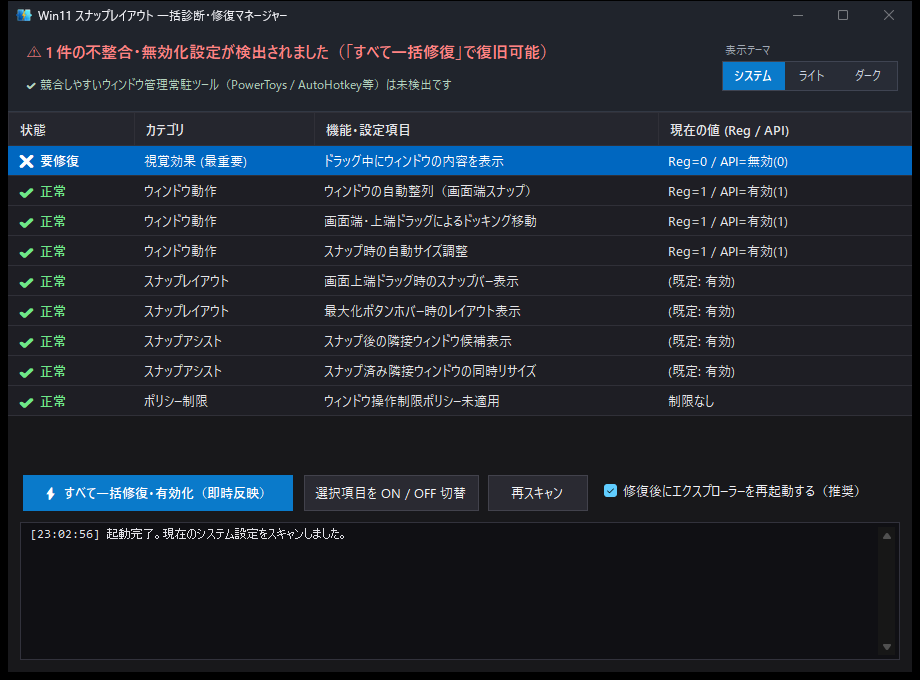
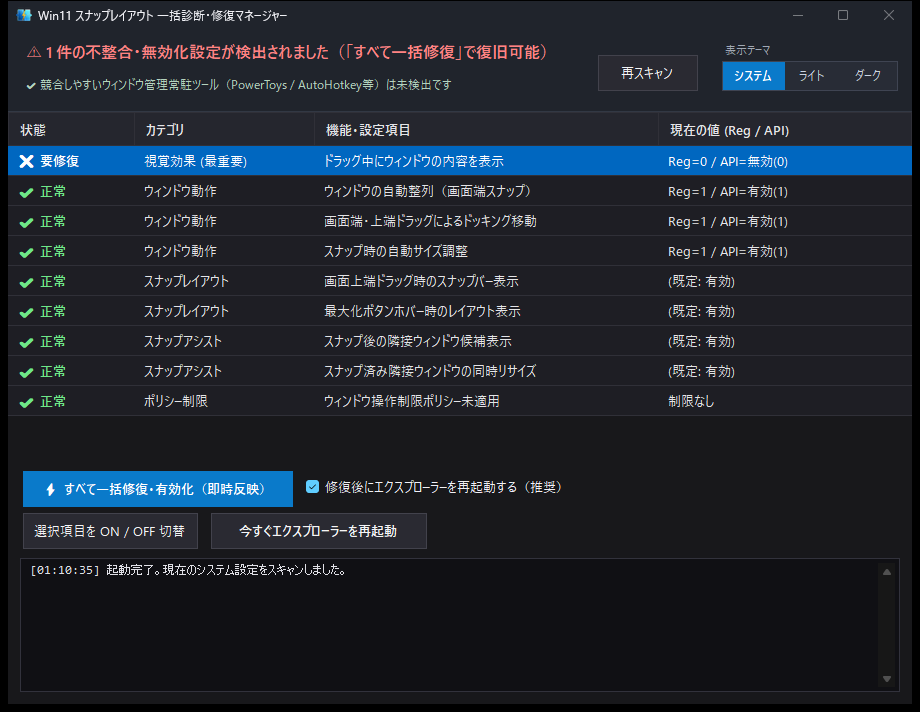
release: v1.1.0

diff --git a/README.md b/README.md
@@ -6,7 +6,7 @@
 
 **Windows 11 のスナップレイアウト・画面端スナップ・ドラッグ視覚効果の不整合を瞬時に診断し、ワンクリックで一括修復するスタンドアロンツール**
 
-[![Release](https://img.shields.io/badge/Release-v1.0.0-238636?style=flat-square)](https://github.com/777Labs/Win11SnapAllInOne/releases)
+[![Release](https://img.shields.io/badge/Release-v1.1.0-238636?style=flat-square)](https://github.com/777Labs/Win11SnapAllInOne/releases)
 [![Platform](https://img.shields.io/badge/Platform-Windows%2011%20(64--bit)-0078D4?style=flat-square)](https://github.com/777Labs/Win11SnapAllInOne)
 [![License](https://img.shields.io/badge/License-Freeware-blue?style=flat-square)](LICENSE)
 
@@ -36,8 +36,8 @@
   - レジストリ値だけでなく `SystemParametersInfo` API の実効値まで一括診断し、設定の不整合や無効化されている項目を赤色ハイライトで表示します。
 - ⚡ **ワンクリック一括修復・即時反映**:
   - レジストリの修復、Win32 API（`SPIF_UPDATEINIFILE | SPIF_SENDCHANGE`）の適用、`WM_SETTINGCHANGE` ブロードキャスト、およびエクスプローラー（`explorer.exe`）の再起動までを一括で実行します。
-- 🎛 **個別項目の ON / OFF 切替・再スキャン**:
-  - 一覧の行をダブルクリック、または「選択項目を ON / OFF 切替」ボタンで項目ごとの状態切り替えに対応しています（ポリシー制限項目は一括修復ボタンから解除を実行します）。
+- 🎛 **個別項目の ON / OFF 切替 & エクスプローラー即時再起動**:
+  - 一覧の行をダブルクリック、または「選択項目を ON / OFF 切替」ボタンで項目ごとの状態切り替えに対応（チェック有効時は切り替え後に自動でエクスプローラーを再起動し即時反映）。また「今すぐエクスプローラーを再起動」ボタンからいつでも手動でシェル再起動を実行できます。
 - 🎨 **ダークモード対応（システム / ライト / ダーク）**:
   - 画面右上の「表示テーマ」スイッチから「システム」「ライト」「ダーク」をいつでも切り替え可能。「システム」選択時は Windows 11 のアプリモード設定に連動してリアルタイムに追従します。
 - 🛡 **競合しやすい常駐ツールの自動検出**:
@@ -66,7 +66,7 @@
 ## 📥 ダウンロードと使い方
 
 ### 1. ダウンロード
-右側の [**Releases**](https://github.com/777Labs/Win11SnapAllInOne/releases) ページから最新の `Win11SnapAllInOne-v1.0.0-win-x64.zip`（または `Win11SnapAllInOne.exe`）をダウンロードしてください。
+右側の [**Releases**](https://github.com/777Labs/Win11SnapAllInOne/releases) ページから最新の `Win11SnapAllInOne-v1.1.0-win-x64.zip`（または `Win11SnapAllInOne.exe`）をダウンロードしてください。
 
 ### 2. 起動方法
 1. ダウンロードした ZIP ファイルをお好みのフォルダーに展開（解凍）します。
@@ -92,7 +92,8 @@
 | 操作 / オプション | 動作 |
 | :--- | :--- |
 | `⚡ すべて一括修復・有効化（即時反映）` | 全9項目を有効化・修復し、`WM_SETTINGCHANGE` 送信（およびチェック有効時はエクスプローラー再起動）を実行 |
-| `選択項目を ON / OFF 切替` / 行のダブルクリック | 選択中の設定項目を個別に ON / OFF 切替（ポリシー制限項目を除く） |
+| `選択項目を ON / OFF 切替` / 行のダブルクリック | 選択中の設定項目を個別に ON / OFF 切替（チェック有効時は自動でエクスプローラーを再起動し即時反映） |
+| `今すぐエクスプローラーを再起動` | `WM_SETTINGCHANGE` 送信およびエクスプローラー（`explorer.exe`）の再起動を即座に実行 |
 | `再スキャン` | 現在のレジストリ・API 状態および競合プロセスを再診断 |
 | `表示テーマ`（`システム` / `ライト` / `ダーク`） | 外観テーマ（OS連動・ライト・ダーク）を即座に切り替え、選択内容を保存（`%LOCALAPPDATA%\777 Labs\Win11SnapAllInOne\settings.json`） |
 | `Win11SnapAllInOne.exe /fix`（または `--fix`） | GUI を表示せずに一括修復＋エクスプローラー再起動を実行して終了 |

diff --git a/CHANGELOG.md b/CHANGELOG.md
@@ -4,6 +4,17 @@
 
 ---
 
+## v1.1.0 - 2026-11-19
+
+**✨ 新機能・UI改善 (Added & Improved)**
+- **「今すぐエクスプローラーを再起動」ボタンを追加**: 個別設定の切り替え後や手動でシェルへ設定を反映したい際に、ワンクリックで `WM_SETTINGCHANGE` 通知と `explorer.exe` の再起動を実行できるボタンを下部操作エリアに追加しました。
+- **個別項目の ON / OFF 切替時の自動エクスプローラー再起動連動**: 「修復後にエクスプローラーを再起動する（推奨）」チェックボックスが ON の場合、「選択項目を ON / OFF 切替」（または行のダブルクリック）実行時にも自動でエクスプローラーを再起動して即座に設定を適用するように改善しました（複数項目をまとめて切り替える場合はチェックを OFF にして最後に「今すぐエクスプローラーを再起動」を押す運用も可能です）。
+- **ボタン配置の最適化**: 「再スキャン」ボタンを上部の表示テーマ切替の左隣へ移動し、下部操作エリアを「一括修復＋自動再起動チェックボックス（上段）」「個別 ON / OFF 切替＋今すぐエクスプローラーを再起動（下段）」の2段構成に整理しました。
+
+**💻 動作要件 (System Requirements)**
+- **OS**: Windows 11 (64-bit / x64) ※Windows 10 (64-bit) でも動作可能
+- **ランタイム**: 追加ランタイム不要（.NET 8 Self-Contained 単一実行ファイル）
+
 ## v1.0.0 - 2026-11-14
 
 🎉 **初期リリース (Initial Release)**
